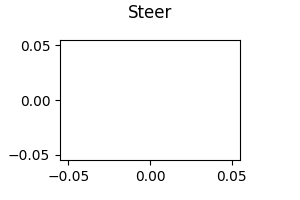
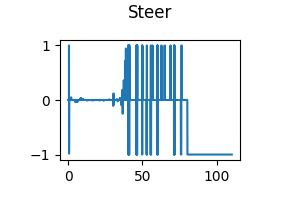
debugging 1

diff --git a/course4_final/module_7.py b/course4_final/module_7.py
@@ -708,7 +708,7 @@ def exec_waypoint_nav_demo(args):
             # to be operating at a frequency that is a division to the 
             # simulation frequency.
             if frame % LP_FREQUENCY_DIVISOR == 0:
-                # TODO Once you have completed the prerequisite functions of each of these
+                # Once you have completed the prerequisite functions of each of these
                 # lines, you can uncomment the code below the dashed line to run the planner. 
                 # Note that functions lower in this block often require outputs from the functions
                 # earlier in this block, so it may be easier to implement those first to
@@ -718,54 +718,54 @@ def exec_waypoint_nav_demo(args):
                 # Before you uncomment a function, please take the time to take a look at
                 # it and understand what is going on. It will also help inform you on the
                 # flow of the planner, which in turn will help you implement the functions
-                # flagged for you in the TODO's.
+                # flagged for you in the TO-DO's.
 
-                # TODO: Uncomment each code block between the dashed lines to run the planner.
+                # Uncomment each code block between the dashed lines to run the planner.
                 # --------------------------------------------------------------
-                #  # Compute open loop speed estimate.
-                #  open_loop_speed = lp._velocity_planner.get_open_loop_speed(current_timestamp - prev_timestamp)
+                # Compute open loop speed estimate.
+                open_loop_speed = lp._velocity_planner.get_open_loop_speed(current_timestamp - prev_timestamp)
 
-                #  # Calculate the goal state set in the local frame for the local planner.
-                #  # Current speed should be open loop for the velocity profile generation.
-                #  ego_state = [current_x, current_y, current_yaw, open_loop_speed]
+                # Calculate the goal state set in the local frame for the local planner.
+                # Current speed should be open loop for the velocity profile generation.
+                ego_state = [current_x, current_y, current_yaw, open_loop_speed]
 
-                #  # Set lookahead based on current speed.
-                #  bp.set_lookahead(BP_LOOKAHEAD_BASE + BP_LOOKAHEAD_TIME * open_loop_speed)
+                # Set lookahead based on current speed.
+                bp.set_lookahead(BP_LOOKAHEAD_BASE + BP_LOOKAHEAD_TIME * open_loop_speed)
 
-                #  # Perform a state transition in the behavioural planner.
-                #  bp.transition_state(waypoints, ego_state, current_speed)
+                # Perform a state transition in the behavioural planner.
+                bp.transition_state(waypoints, ego_state, current_speed)
 
-                #  # Check to see if we need to follow the lead vehicle.
-                #  bp.check_for_lead_vehicle(ego_state, lead_car_pos[1])
+                # Check to see if we need to follow the lead vehicle.
+                bp.check_for_lead_vehicle(ego_state, lead_car_pos[1])
 
-                #  # Compute the goal state set from the behavioural planner's computed goal state.
-                #  goal_state_set = lp.get_goal_state_set(bp._goal_index, bp._goal_state, waypoints, ego_state)
+                # Compute the goal state set from the behavioural planner's computed goal state.
+                goal_state_set = lp.get_goal_state_set(bp._goal_index, bp._goal_state, waypoints, ego_state)
 
-                #  # Calculate planned paths in the local frame.
-                #  paths, path_validity = lp.plan_paths(goal_state_set)
+                # Calculate planned paths in the local frame.
+                paths, path_validity = lp.plan_paths(goal_state_set)
 
-                #  # Transform those paths back to the global frame.
-                #  paths = local_planner.transform_paths(paths, ego_state)
+                # Transform those paths back to the global frame.
+                paths = local_planner.transform_paths(paths, ego_state)
 
-                #  # Perform collision checking.
-                #  collision_check_array = lp._collision_checker.collision_check(paths, [parkedcar_box_pts])
+                # Perform collision checking.
+                collision_check_array = lp._collision_checker.collision_check(paths, [parkedcar_box_pts])
 
-                #  # Compute the best local path.
-                #  best_index = lp._collision_checker.select_best_path_index(paths, collision_check_array, bp._goal_state)
-                #  # If no path was feasible, continue to follow the previous best path.
-                #  if best_index == None:
-                #      best_path = lp._prev_best_path
-                #  else:
-                #      best_path = paths[best_index]
-                #      lp._prev_best_path = best_path
+                # Compute the best local path.
+                best_index = lp._collision_checker.select_best_path_index(paths, collision_check_array, bp._goal_state)
+                # If no path was feasible, continue to follow the previous best path.
+                if best_index == None:
+                    best_path = lp._prev_best_path
+                else:
+                    best_path = paths[best_index]
+                    lp._prev_best_path = best_path
 
-                #  # Compute the velocity profile for the path, and compute the waypoints.
-                #  # Use the lead vehicle to inform the velocity profile's dynamic obstacle handling.
-                #  # In this scenario, the only dynamic obstacle is the lead vehicle at index 1.
-                #  desired_speed = bp._goal_state[2]
-                #  lead_car_state = [lead_car_pos[1][0], lead_car_pos[1][1], lead_car_speed[1]]
-                #  decelerate_to_stop = bp._state == behavioural_planner.DECELERATE_TO_STOP
-                #  local_waypoints = lp._velocity_planner.compute_velocity_profile(best_path, desired_speed, ego_state, current_speed, decelerate_to_stop, lead_car_state, bp._follow_lead_vehicle)
+                # Compute the velocity profile for the path, and compute the waypoints.
+                # Use the lead vehicle to inform the velocity profile's dynamic obstacle handling.
+                # In this scenario, the only dynamic obstacle is the lead vehicle at index 1.
+                desired_speed = bp._goal_state[2]
+                lead_car_state = [lead_car_pos[1][0], lead_car_pos[1][1], lead_car_speed[1]]
+                decelerate_to_stop = bp._state == behavioural_planner.DECELERATE_TO_STOP
+                local_waypoints = lp._velocity_planner.compute_velocity_profile(best_path, desired_speed, ego_state, current_speed, decelerate_to_stop, lead_car_state, bp._follow_lead_vehicle)
                 # --------------------------------------------------------------
 
                 if local_waypoints != None:

diff --git a/course4_final/velocity_planner.py b/course4_final/velocity_planner.py
@@ -231,7 +231,9 @@ class VelocityPlanner:
             for i in reversed(range(stop_index)):
                 dist = np.linalg.norm([path[0][i+1] - path[0][i], 
                                        path[1][i+1] - path[1][i]])
-                vi = calc_final_speed(vf, -self._a_max, dist)
+                # TODO: forum says that this is a bug!
+                # vi = calc_final_speed(vf, -self._a_max, dist)
+                vi = calc_final_speed(vf, self._a_max, dist)
                 # We don't want to have points above the starting speed
                 # along our profile, so clamp to start_speed.
                 if vi > start_speed:
@@ -502,6 +504,9 @@ def calc_distance(v_i, v_f, a):
     # return d
 
     d = (v_f**2 - v_i**2) / (2 * a)
+    if d < 0:
+        d = 0
+
     return d
     # ------------------------------------------------------------------
 
@@ -535,7 +540,12 @@ def calc_final_speed(v_i, a, d):
     # ------------------------------------------------------------------
     # v_f = ...
     # return v_f
+    discriminant = v_i**2 + 2*a*d
+    if discriminant <= 0:
+        v_f = 0.0
+    else:
+        v_f = sqrt(discriminant)
 
-    sqrt(v_i**2 + 2*a*d)
+    return v_f
     # ------------------------------------------------------------------
 

diff --git a/course4_final/collision_checker.py b/course4_final/collision_checker.py
@@ -85,8 +85,8 @@ class CollisionChecker:
                 # circle_locations[:, 0] = ... 
                 # circle_locations[:, 1] = ...
 
-                circle_locations[:, 0] = path[0][j] + self._circle_offsets * cos(path[2][j])
-                circle_locations[:, 1] = path[1][j] + self._circle_offsets * sin(path[2][j])
+                circle_locations[:, 0] = path[0][j] + np.multiply(self._circle_offsets, np.cos(path[2][j]))
+                circle_locations[:, 1] = path[1][j] + np.multiply(self._circle_offsets, np.sin(path[2][j]))
                 # --------------------------------------------------------------
 
                 # Assumes each obstacle is approximated by a collection of

diff --git a/course4_final/path_optimizer.py b/course4_final/path_optimizer.py
@@ -187,9 +187,9 @@ class PathOptimizer:
         # return [x_points, y_points, t_points]
 
         t_points = self.thetaf(a, b, c, d, s_points)
-        x_points = scipy.integrate.cumtrapz(y = cos(t_points),
+        x_points = scipy.integrate.cumtrapz(y = np.cos(t_points),
                                             x = s_points)
-        y_points = scipy.integrate.cumtrapz(y = sin(t_points),
+        y_points = scipy.integrate.cumtrapz(y = np.sin(t_points),
                                             x = s_points)
 
         return [x_points, y_points, t_points]
